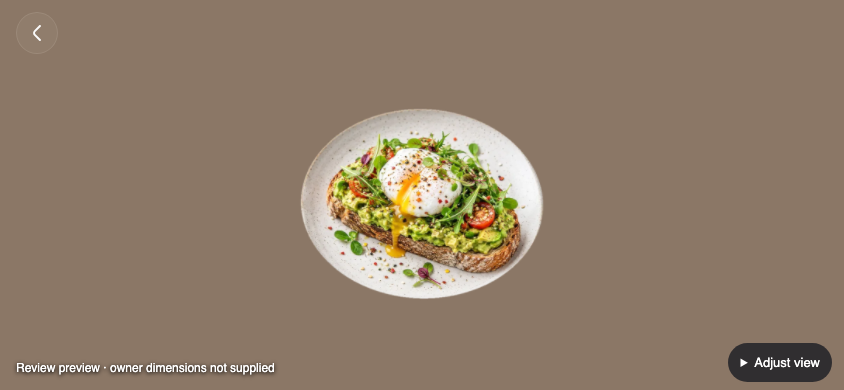
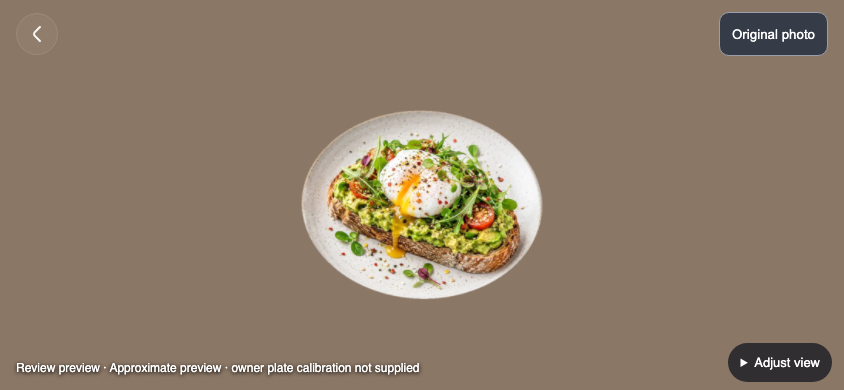
Record plate calibration checks and update preview evidence

diff --git a/docs/CONTEXT.md b/docs/CONTEXT.md
@@ -60,7 +60,7 @@ The append-only `errors.md` operational ledger is deliberately outside source fi
         "docs/adr/0016-unified-menu-ingestion-orchestration.md"
       ],
       "dependsOn": [],
[2 lines of base64/hex data omitted]
     },
     {
       "id": "tokens",
@@ -226,7 +226,7 @@ The append-only `errors.md` operational ledger is deliberately outside source fi
         "contracts",
         "tokens"
       ],
[2 lines of base64/hex data omitted]
     },
     {
       "id": "console",
@@ -649,7 +649,7 @@ The append-only `errors.md` operational ledger is deliberately outside source fi
       "dependsOn": [
         "contracts"
       ],
[2 lines of base64/hex data omitted]
     },
     {
       "id": "assets",
@@ -682,14 +682,18 @@ The append-only `errors.md` operational ledger is deliberately outside source fi
       "dependsOn": [
         "processing"
       ],
[2 lines of base64/hex data omitted]
     }
   ],
   "handoffs": [
     {
       "date": "2026-11-13",
       "summary": "PR162 binds owner plate dimensions and normalized boundary to exact original-photo SHA/dimensions and rendered foreground SHA. Local review upload offers round/rectangular measurements, boundary overlay and explicit confirmation; edits revoke confirmation. Tracked AR uses metric plate footprint with fixed scale; flat cutout and generated model appearance remain approximate and device validation pending. Plain camera is always approximate. Fullscreen Original photo/Return to AR restores direct access without replacing source bytes or changing back/actions. PR147 fixtures have no invented measurements.",
-      "modules": ["diner", "contracts", "processing"],
+      "modules": [
+        "diner",
+        "contracts",
+        "processing"
+      ],
       "next": "Verify measured footprint on physical supported phones against the real plate. Owner console/public authenticated ingestion and approved publication remain separate; local review UI is DEV-only."
     },
     {
@@ -771,15 +775,6 @@ The append-only `errors.md` operational ledger is deliberately outside source fi
         "delivery"
       ],
       "next": "Run the official evaluation on the clean final commit and inspect source/dirty provenance. Merge after checks; then synchronize draft #112 separately. No model, independent rubric, producer mapping, hosted acceptance or release policy is certified."
-    },
-    {
-      "date": "2026-11-09",
-      "summary": "PR107 final re-review verifies opening-based timing coverage, ordered pair attribution, small timed/opened cohort masking and the reserved synthetic-venue HTTP gate. Both Sol review lanes clear the author fixes. Fresh local checks pass: 113 focused tests, 1068 unit/67 script tests, 213 SQL assertions and 77 real PostgreSQL/Worker tests. Builds pass. No runtime fix was needed; this handoff corrects the contract summary and records evidence.",
-      "modules": [
-        "backend",
-        "contracts"
-      ],
-      "next": "Merge the tested report foundation into develop. Keep the route gated to the explicitly configured reserved synthetic venue. DATA08 overlapping-filter suppression, verified pipeline freshness and hosted/product acceptance remain gates before real-data reporting."
     }
   ]
 }

diff --git a/qa-reports/diner-portion-preview/plate-calibration.md b/qa-reports/diner-portion-preview/plate-calibration.md
@@ -1,0 +1,14 @@
+# PR162 plate calibration verification — 2026-11-13
+
+Implementation reviewed at `3b52ee2407091099ebcf03741f45ae5cfff5ed26` by separate automated architecture and correctness reviewers: no supported findings in the inspected change. Review does not authorize merge or establish device accuracy.
+
+- PASS: `pnpm verify lint typecheck test build` (authorized local networking): 1,225 unit tests, four skipped; 81 script tests. Full command also requested context/docs; context initially exceeded ten handoffs, then was corrected.
+- PASS: `pnpm verify context:check docs:check` after keeping ten bounded handoffs.
+- PASS: `PYTHONPATH=processing/src:processing/tests <focused-venv>/bin/python -m unittest test_portion_ingestion test_portion_service test_cutout`: 18 tests.
+- PASS: `pnpm exec playwright test --config playwright.landscape-local.config.ts --output /private/tmp/plate-landscape-results`: three portrait/landscape/orientation checks including exact-source Original photo and Return to AR.
+- PASS: `PEEKAPLATE_LIVE_CUTOUT=1 pnpm exec playwright test --config playwright.cutout-local.config.ts`: three real local U2NetP uploads covering normal, missing-photo and legacy-demo dishes. The final isolated-output rerun additionally verifies that editing a boundary clears owner confirmation.
+- The retained landscape screenshot uses a simulated camera background. Upload segmentation uses the actual local model; camera, orientation and table tracking are not physical-device acceptance evidence.
+
+Verified boundaries: original source SHA/dimensions, foreground SHA, bounded plate measurement and source boundary, explicit confirmation, legacy width-only remains approximate, exact original photo retained, unchanged View Portion/Compare row and back navigation. The plate footprint uses world metres only with tracked placement. The flat cutout and uncalibrated 3D mesh remain approximate; no physical accuracy guarantee is made.
+
+NOT RUN: real-phone metric footprint/table tracking validation. Hosted owner photo upload is not provided by static Pages; the editor/private bridge remains local DEV-only. PR147 fixture plates have no invented measurements. No merge or staging/production deployment.

diff --git a/errors.md b/errors.md
@@ -2848,3 +2848,12 @@ AR review follow-up: explicit ImageBitmap.close now releases GLTFLoader-owned de
 ```json
 {"kind":"automatic-check-observation","check":"test","timestamp":"2026-11-14T05:18:59.690Z","exitCode":1}
 ```
+
+- 2026-11-13 calibration final verification: initial full suite could not bind test HTTP servers (EPERM); rerunning with authorized local networking passed 1225 unit and81 script checks. Concurrent Playwright runs shared the default artifact directory and one trace cleanup failed (ENOENT); isolated output directories resolved it, with3 landscape/original-photo checks passing.
+
+<!-- automatic observation; not root cause -->
+```json
+{"kind":"automatic-check-observation","check":"context:check","timestamp":"2026-11-14T05:21:51.981Z","exitCode":1}
+```
+
+- 2026-11-13 context check rejected eleven handoffs after adding plate calibration. Kept the required ten most recent handoffs; older entries remain in Git history.
